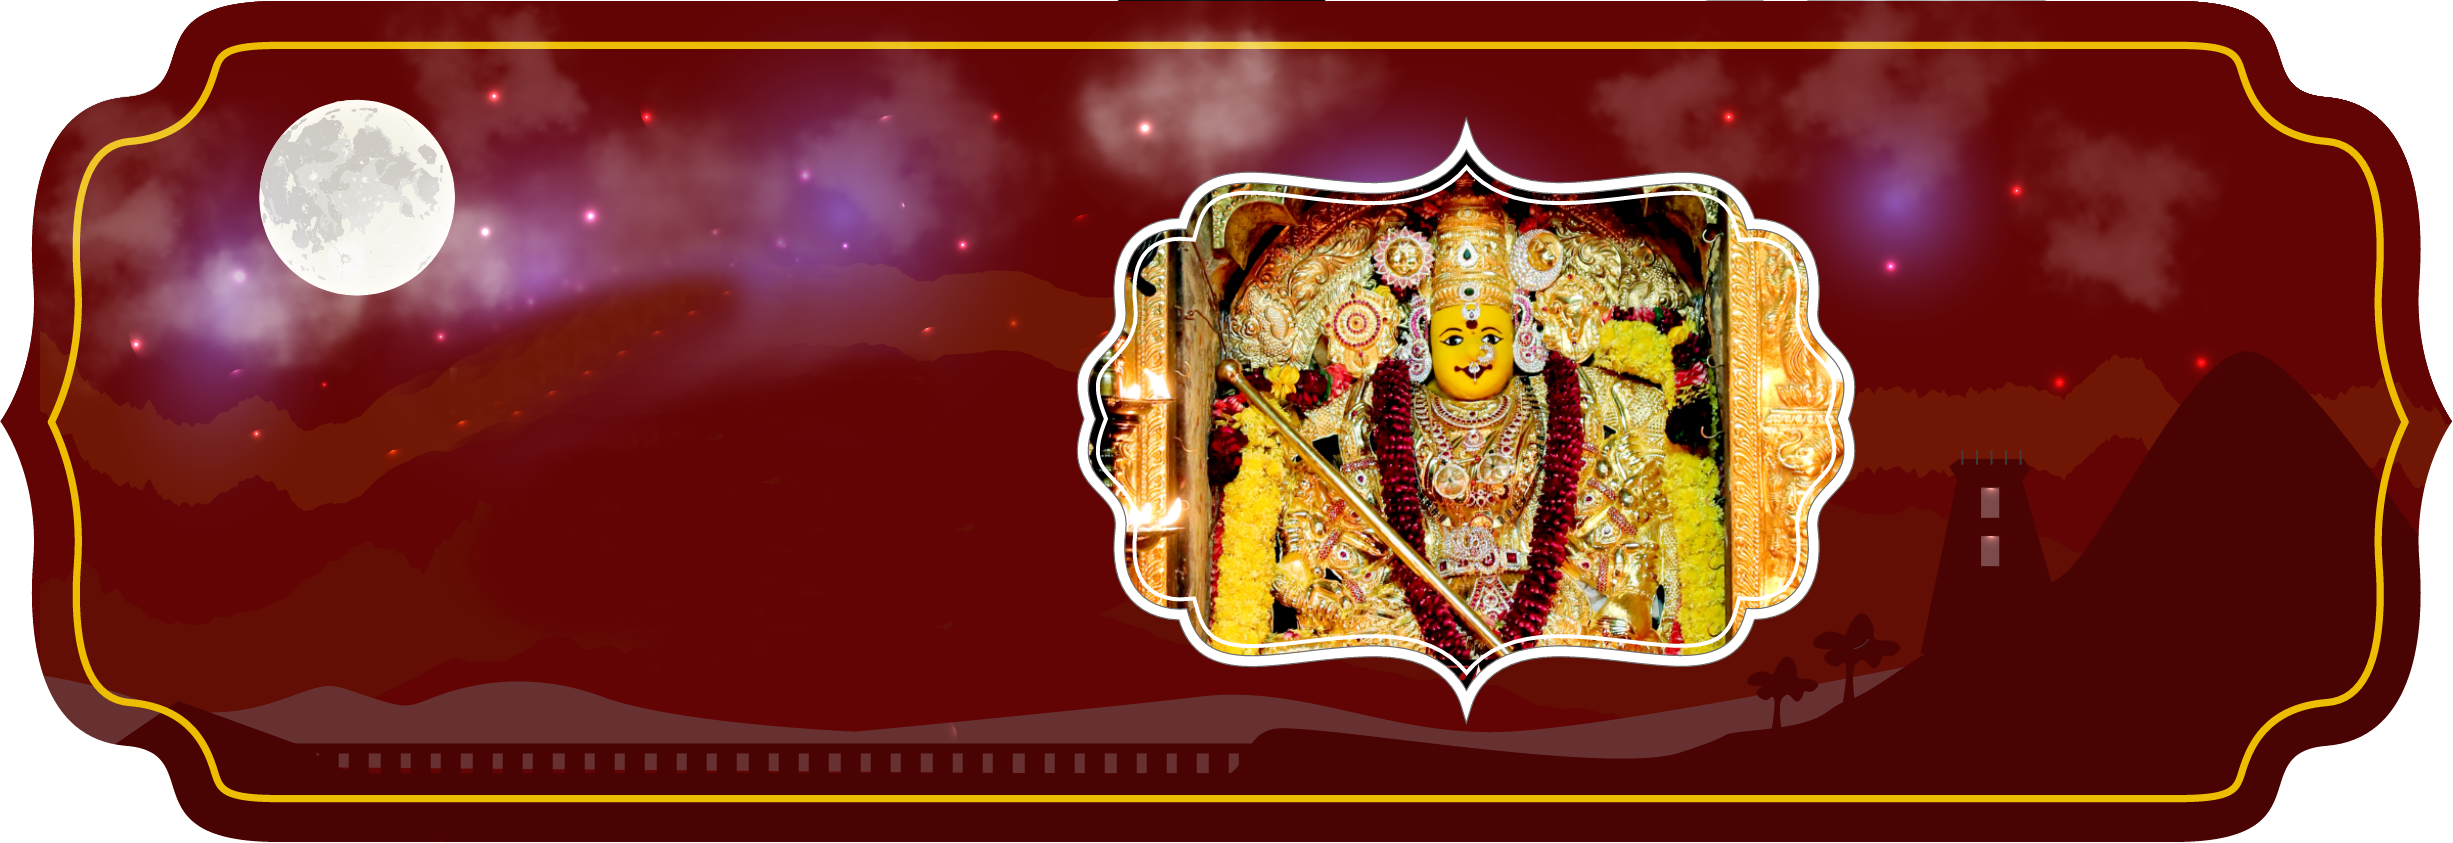
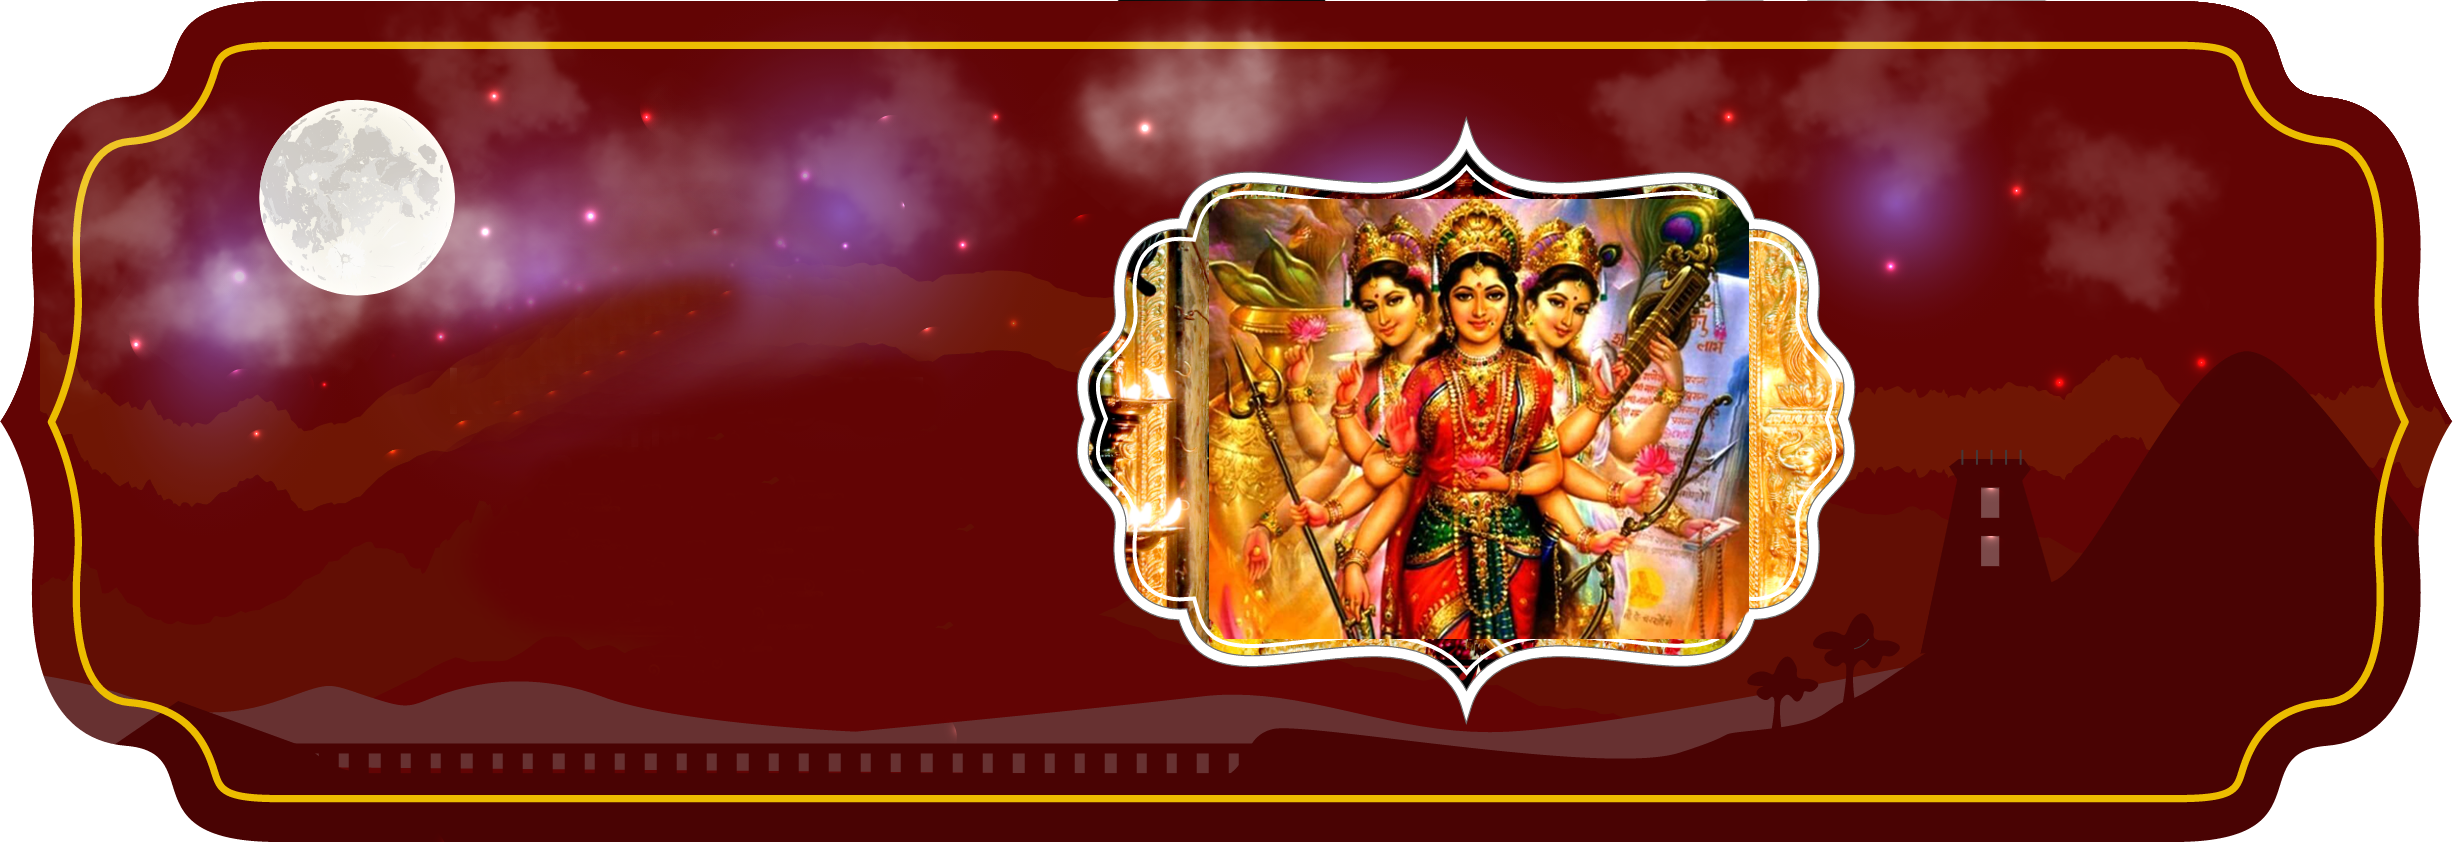
UI Changes

Changed region(s): [[0.4957, 0.2159, 0.7126, 0.7711]]

diff --git a/index.html b/index.html
@@ -30,13 +30,7 @@
   <link href="assets/css/main.css" rel="stylesheet">
   <link href="assets/css/lightbox.css" rel="stylesheet">
 
-  <!-- =======================================================
-  * Template Name: ZenBlog
-  * Updated: Sep 18 2023 with Bootstrap v5.3.2
-  * Template URL: https://bootstrapmade.com/zenblog-bootstrap-blog-template/
-  * Author: BootstrapMade.com
-  * License: https:///bootstrapmade.com/license/
-  ======================================================== -->
+
 </head>
 
 <body>
@@ -90,28 +84,19 @@
                   <a href="#" class="img-bg d-flex align-items-end" style="background-image: url('assets/img/banner-1.png');">
                     <div class="img-bg-inner">
                       <h2 class="fw-bold">Tridevi Goddesses</h2>
-                      <p>Lorem ipsum dolor sit amet, consectetur adipisicing elit. Quidem neque est mollitia! Beatae minima assumenda repellat harum vero, officiis ipsam magnam.</p>
+                      <p>The feminine Tridevi goddesses are relegated as consorts and auxiliary deities to the more eminent masculine Trimurti gods. </p>
                     </div>
                   </a>
                 </div>
 
-                <div class="swiper-slide">
-                  <a href="#" class="img-bg d-flex align-items-end" style="background-image: url('assets/img/banner-2.png');">
+                <!-- <div class="swiper-slide">
+                  <a href="#" class="img-bg d-flex align-items-end" style="background-image: url('assets/img/');">
                     <div class="img-bg-inner">
-                      <h2 class="fw-bold">Tridevi Goddesses</h2>
-                      <p>Lorem ipsum dolor sit amet, consectetur adipisicing elit. Quidem neque est mollitia! Beatae minima assumenda repellat harum vero, officiis ipsam magnam.</p>
+                      <h2 class="fw-bold"></h2>
+                      <p></p>
                     </div>
                   </a>
-                </div>
-
-                <div class="swiper-slide">
-                  <a href="#" class="img-bg d-flex align-items-end" style="background-image: url('assets/img/banner-3.png');">
-                    <div class="img-bg-inner">
-                      <h2 class="fw-bold">Tridevi Goddesses</h2>
-                      <p>Lorem ipsum dolor sit amet, consectetur adipisicing elit. Quidem neque est mollitia! Beatae minima assumenda repellat harum vero, officiis ipsam magnam.</p>
-                    </div>
-                  </a>
-                </div>
+                </div> -->
               </div>
               <div class="custom-swiper-button-next">
                 <span class="bi-chevron-right"></span>
@@ -141,14 +126,14 @@
 
         <div class="section-header d-flex justify-content-between align-items-center mb-5">
           <h2>Latest Events</h2>
-          <div><a href="#" class="more">See All Events</a></div>
+          <!-- <div><a href="#" class="more">See All Events</a></div> -->
         </div>
 
         <div class="row g-5">
           <div class="col-lg-4">
             <div class="post-entry-1 lg">
               <a href="vinayaka-chavithi.html"><img src="assets/img/vinayaka-chavithi.jpg" alt="" class="img-fluid"></a>
-              <div class="post-meta"><span class="date">Jul 5th '22</span></div>
+              <div class="post-meta"><span class="date">Oct 18th '23</span></div>
               <h4><a href="vinayaka-chavithi.html" class="color-orange fw-bold">Vinayaka Chavithi</a></h4>
               <p>Antharaaya thimiropa saanthaye saantha paavanamachintya vaibhavam tam naram vapushi kunjaram mukhe manmahe kimapi tundilam mahaha</p>
               <a href="vinayaka-chavithi.html" class="text-decoration-underline color-gray">Read more</a>
@@ -157,7 +142,7 @@
           <div class="col-lg-4">
             <div class="post-entry-1 lg">
               <a href="vinayaka-chavithi.html"><img src="assets/img/karthika-masam.jpg" alt="" class="img-fluid"></a>
-              <div class="post-meta"><span class="date">Jul 5th '22</span></div>
+              <div class="post-meta"><span class="date">Nov 14th '23</span></div>
               <h4><a href="kaarthika-masam.html" class="color-orange fw-bold">Kaarthika Masam</a></h4>
               <p>Antharaaya thimiropa saanthaye saantha paavanamachintya vaibhavam tam naram vapushi kunjaram mukhe manmahe kimapi tundilam mahaha</p>
               <a href="kaarthika-masam.html" class="text-decoration-underline color-gray">Read more</a>
@@ -166,7 +151,7 @@
           <div class="col-lg-4">
             <div class="post-entry-1 lg">
               <a href="vinayaka-chavithi.html"><img src="assets/img/durga-matha.jpg" alt="" class="img-fluid"></a>
-              <div class="post-meta"><span class="date">Jul 5th '22</span></div>
+              <div class="post-meta"><span class="date">Oct 15th '23</span></div>
               <h4><a href="sarannavaraathrulu.html" class="color-orange fw-bold">Sarannavaraathrulu</a></h4>
               <p>Antharaaya thimiropa saanthaye saantha paavanamachintya vaibhavam tam naram vapushi kunjaram mukhe manmahe kimapi tundilam mahaha</p>
               <a href="sarannavaraathrulu.html" class="text-decoration-underline color-gray">Read more</a>
@@ -184,8 +169,8 @@
             <img src="assets/img/icon.webp" class="img-fluid" alt="Icon">
         <h2 class="text-center fw-bold mt-4">Mission</h2>
         <h5 class="mt-4">Religious, Moral & Spiritual Growth</h5>
-        <p class="mt-4">I'm a paragraph. Click here to add your own text and edit me. It’s easy. Just click “Edit Text” or double click me to add your own content and make changes to the font. Feel free to drag and drop me anywhere you like on your page. I’m a great place for you to tell a story and let your users know a little more about you.</p>
-        <p class="mt-4">I'm a paragraph. Click here to add your own text and edit me. It’s easy. Just click “Edit Text” or double click me to add your own content and make changes to the font. Feel free to drag and drop me anywhere you like on your page. I’m a great place for you to tell a story and let your users know a little more about you.</p>
+        <p class="mt-4">At Trishakti Temple, our mission is deeply rooted in fostering a profound sense of religious, moral, and spiritual growth within our community. </p>
+        <p class="mt-4">Guided by the timeless principles of Hinduism, we strive to create an environment where individuals can embark on a transformative journey towards inner peace, ethical living, and spiritual enlightenment.</p>
       </div>
     </div>
         </div>
@@ -199,16 +184,13 @@
               <div class="col-lg-8">
                 <h2 class="page-title">Photo Gallery</h2>
                 <img src="assets/img/design.png" alt="Design Separator" style="height:15px;">
-                <p class="page-sub-title">I'm an extra long title. Click here to add your own text and edit me. It’s easy. Just click “Edit Text” or double click me to add your own content and make changes to the font. I’m a great place for you to tell a story and let your users know a little more about you.</p>
+                <p class="page-sub-title">Our gallery captures the essence of the temple, showcasing moments of worship, cultural celebrations, and the timeless beauty of our surroundings.</p>
               </div>
             </div>
           </div>
           <div class="col-lg-8 text-center m-auto mb-3">
             <div>
-              <a class="example-image-link" href="https://kanakadurgamma.org/static/media/tempel%20view%20(1)@2x.91f8b808.png" data-lightbox="example-set" data-title="Click the right half of the image to move forward."><img class="example-image" src="https://kanakadurgamma.org/static/media/IMG-20220413-WA0018@2x.7f356c08.png" alt=""/></a>
-              <a class="example-image-link" href="https://kanakadurgamma.org/static/media/IMG-20220413-WA0016@2x.ae152c19.png" data-lightbox="example-set" data-title="Or press the right arrow on your keyboard."><img class="example-image" src="https://kanakadurgamma.org/static/media/IMG-20220413-WA0016@2x.ae152c19.png" alt="" /></a>
-              <a class="example-image-link" href="https://kanakadurgamma.org/static/media/14@2x.b0a8b7de.png" data-lightbox="example-set" data-title="The next image in the set is preloaded as you're viewing."><img class="example-image" src="https://kanakadurgamma.org/static/media/14@2x.b0a8b7de.png" alt="" /></a>
-              <a class="example-image-link" href="https://kanakadurgamma.org/static/media/IMG-20220413-WA0018@2x.7f356c08.png" data-lightbox="example-set" data-title="Click anywhere outside the image or the X to the right to close."><img class="example-image" src="https://kanakadurgamma.org/static/media/IMG-20220413-WA0018@2x.7f356c08.png" alt="" /></a>
+              <a class="example-image-link" href="assets/img/gallery/trivevi-goddess.jpg" data-lightbox="example-set" data-title="Click the right half of the image to move forward."><img class="example-image" src="assets/img/gallery/trivevi-goddess.jpg" alt="Trivevi Goddess"/></a>
             </div>
           </div>
 

diff --git a/services.html b/services.html
@@ -28,13 +28,6 @@
   <link href="assets/css/variables.css" rel="stylesheet">
   <link href="assets/css/main.css" rel="stylesheet">
 
-  <!-- =======================================================
-  * Template Name: ZenBlog
-  * Updated: Sep 18 2023 with Bootstrap v5.3.2
-  * Template URL: https://bootstrapmade.com/zenblog-bootstrap-blog-template/
-  * Author: BootstrapMade.com
-  * License: https:///bootstrapmade.com/license/
-  ======================================================== -->
 </head>
 
 <body>
@@ -83,12 +76,12 @@
               <div class="col-lg-8">
                 <h2 class="page-title">Services</h2>
                 <img src="assets/img/design.png" alt="Design Separator" style="height:12px;">
-                <p class="page-sub-title">Lorem Ipsum is simply dummy text of the printing and typesetting industry. Lorem Ipsum has been the industry's standard dummy text ever since the 1500s.</p>
+                <p class="page-sub-title">At Trishakti Temple, we are committed to providing a range of comprehensive temple services designed to nurture your spiritual journey and foster a sense of belonging within our vibrant community.</p>
               </div>
             </div>
           </div>
           <div class="col-lg-8 text-center m-auto mb-3">
-            <img src="https://static.wixstatic.com/media/0b340f_7d1a850914224d9198fb4c85c93b8b46~mv2_d_4000_2667_s_4_2.jpeg/v1/crop/x_0,y_539,w_4000,h_2127/fill/w_1175,h_625,al_c,q_85,usm_0.66_1.00_0.01,enc_auto/0b340f_7d1a850914224d9198fb4c85c93b8b46~mv2_d_4000_2667_s_4_2.jpeg" alt="" class="img-fluid mb-5">
+            <img src="assets/img/about-services.jpg" alt="Services" class="img-fluid mb-5">
             <div class="mb-4">  
             <h4 class="color-orange fw-bold">Monday to Sunday</h4>
               <p class="mb-2">Morning 8:00 am to 12:00 pm</p>

diff --git a/about-temple.html b/about-temple.html
@@ -28,13 +28,7 @@
   <link href="assets/css/variables.css" rel="stylesheet">
   <link href="assets/css/main.css" rel="stylesheet">
 
-  <!-- =======================================================
-  * Template Name: ZenBlog
-  * Updated: Sep 18 2023 with Bootstrap v5.3.2
-  * Template URL: https://bootstrapmade.com/zenblog-bootstrap-blog-template/
-  * Author: BootstrapMade.com
-  * License: https:///bootstrapmade.com/license/
-  ======================================================== -->
+
 </head>
 
 <body>
@@ -92,8 +86,7 @@
             </a>
             <div class="ps-md-5 mt-4 mt-md-0">
               <div class="post-meta mt-4">About</div>
-              <h1 class="mb-4 color-orange fw-bold">Tridevi Goddesses</h1>
-              <p>In the traditional androcentric denominations of Hinduism, the feminine Tridevi goddesses are relegated as consorts and auxiliary deities to the more eminent masculine Trimurti gods. In Shaktism, the feminine Tridevi goddesses are given the eminent roles of creator (Mahasaraswati), preserver (Mahalakshmi), and destroyer (MahaDurga), with the masculine Trimurti gods being relegated as the auxiliary deities as agents of the feminine Tridevi.</p>
+              <h1 class="mb-4 color-orange fw-bold">Tridevi Goddess</h1>
               <p>In the traditional androcentric denominations of Hinduism, the feminine Tridevi goddesses are relegated as consorts and auxiliary deities to the more eminent masculine Trimurti gods. In Shaktism, the feminine Tridevi goddesses are given the eminent roles of creator (Mahasaraswati), preserver (Mahalakshmi), and destroyer (MahaDurga), with the masculine Trimurti gods being relegated as the auxiliary deities as agents of the feminine Tridevi.</p>
             </div>
           </div>

diff --git a/puja-services.html b/puja-services.html
@@ -5,7 +5,7 @@
   <meta charset="utf-8">
   <meta content="width=device-width, initial-scale=1.0" name="viewport">
 
-  <title>Prayers</title>
+  <title>Puja Services</title>
   <meta content="" name="description">
   <meta content="" name="keywords">
 
@@ -77,7 +77,7 @@
               <div class="col-lg-8">
                 <h2 class="page-title">Puja Services</h2>
                 <img src="assets/img/design.png" alt="Design Separator" style="height:12px;">
-                <p class="page-sub-title">At Trishakti Temple, we are delighted to offer you the opportunity to register for personalized Pooja services, allowing you to partake in the divine rituals and blessings conducted within the hallowed halls of our temple.</p>
+                <p class="page-sub-title">At Trishakti Temple, we are delighted to offer you the opportunity to register for personalized Pooja services, allowing you to partake in the divine rituals and blessings conducted within the hallowed halls of our temple. </p>
               </div>
             </div>
           </div>

diff --git a/sarannavaraathrulu.html b/sarannavaraathrulu.html
@@ -29,13 +29,7 @@
   <link href="assets/css/variables.css" rel="stylesheet">
   <link href="assets/css/main.css" rel="stylesheet">
 
-  <!-- =======================================================
-  * Template Name: ZenBlog
-  * Updated: Sep 18 2023 with Bootstrap v5.3.2
-  * Template URL: https://bootstrapmade.com/zenblog-bootstrap-blog-template/
-  * Author: BootstrapMade.com
-  * License: https:///bootstrapmade.com/license/
-  ======================================================== -->
+  
 </head>
 
 <body>

diff --git a/kaarthika-masam.html b/kaarthika-masam.html
@@ -29,13 +29,6 @@
   <link href="assets/css/variables.css" rel="stylesheet">
   <link href="assets/css/main.css" rel="stylesheet">
 
-  <!-- =======================================================
-  * Template Name: ZenBlog
-  * Updated: Sep 18 2023 with Bootstrap v5.3.2
-  * Template URL: https://bootstrapmade.com/zenblog-bootstrap-blog-template/
-  * Author: BootstrapMade.com
-  * License: https:///bootstrapmade.com/license/
-  ======================================================== -->
 </head>
 
 <body>

diff --git a/vinayaka-chavithi.html b/vinayaka-chavithi.html
@@ -29,13 +29,6 @@
   <link href="assets/css/variables.css" rel="stylesheet">
   <link href="assets/css/main.css" rel="stylesheet">
 
-  <!-- =======================================================
-  * Template Name: ZenBlog
-  * Updated: Sep 18 2023 with Bootstrap v5.3.2
-  * Template URL: https://bootstrapmade.com/zenblog-bootstrap-blog-template/
-  * Author: BootstrapMade.com
-  * License: https:///bootstrapmade.com/license/
-  ======================================================== -->
 </head>
 
 <body>
